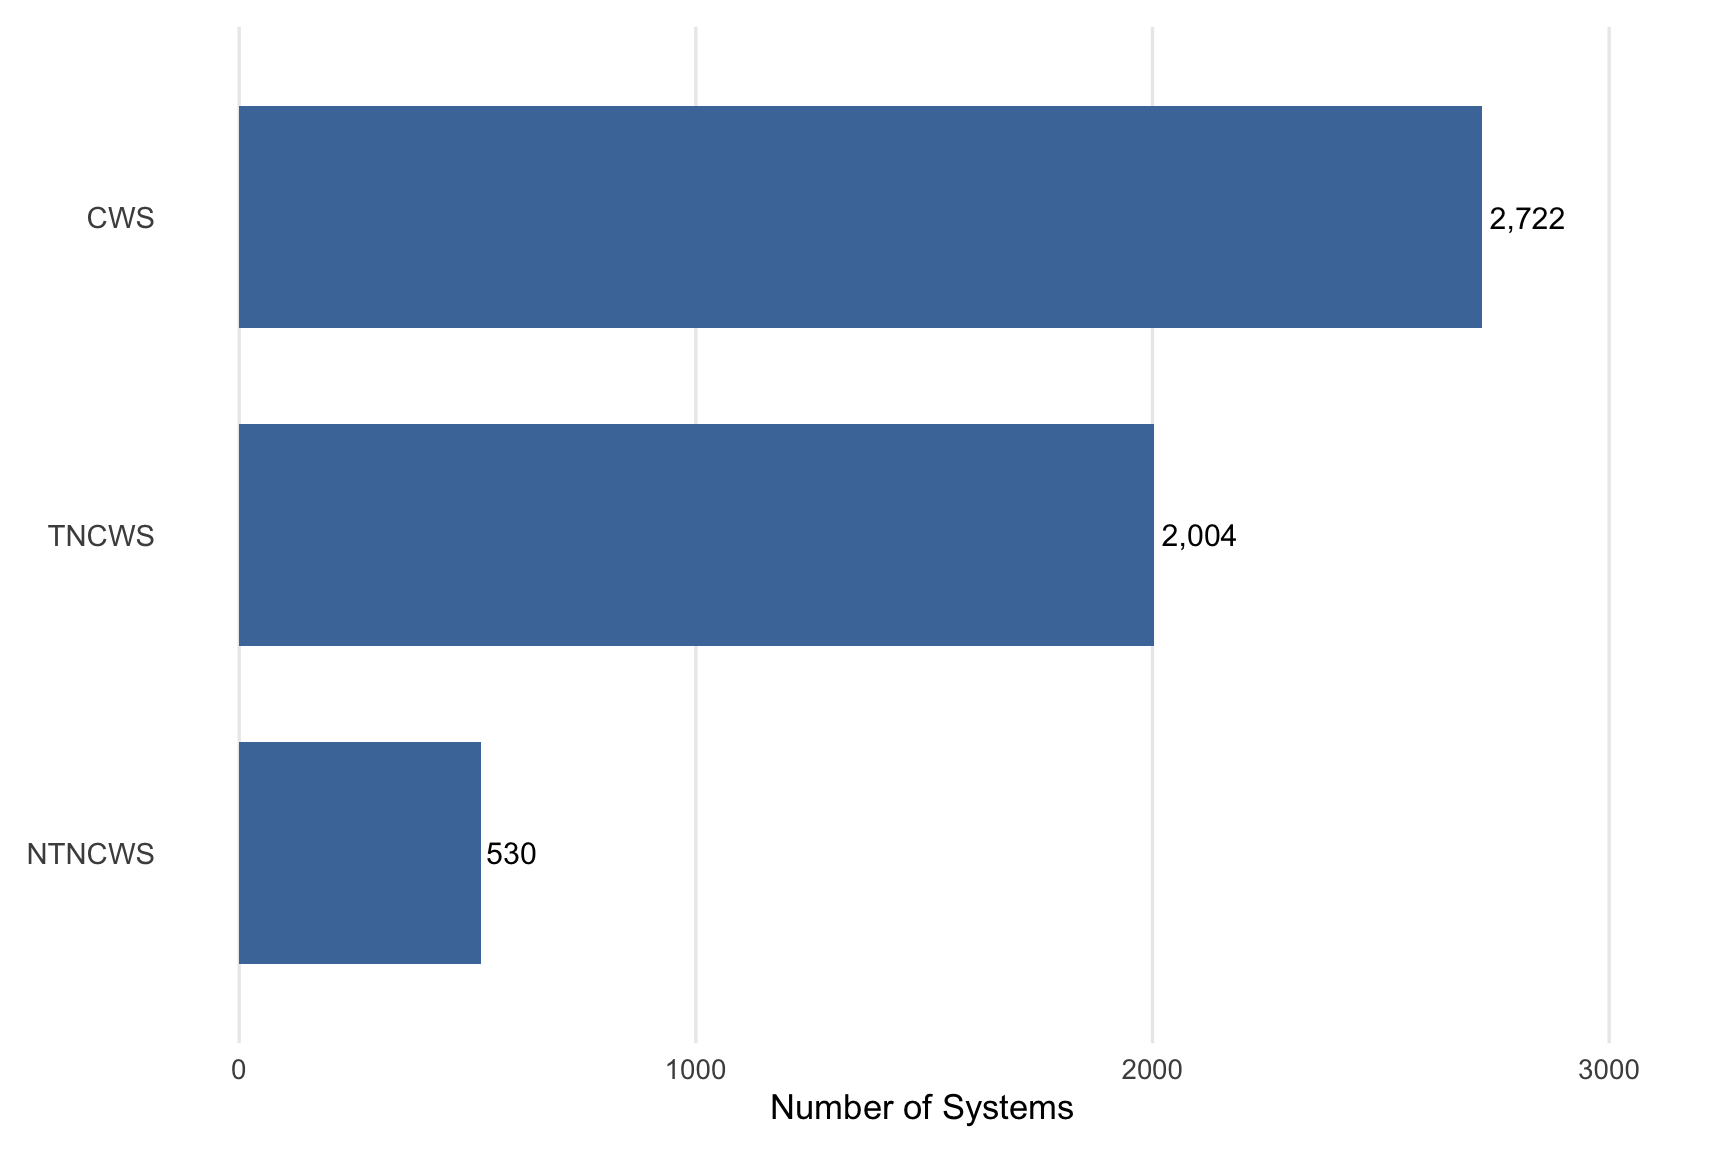
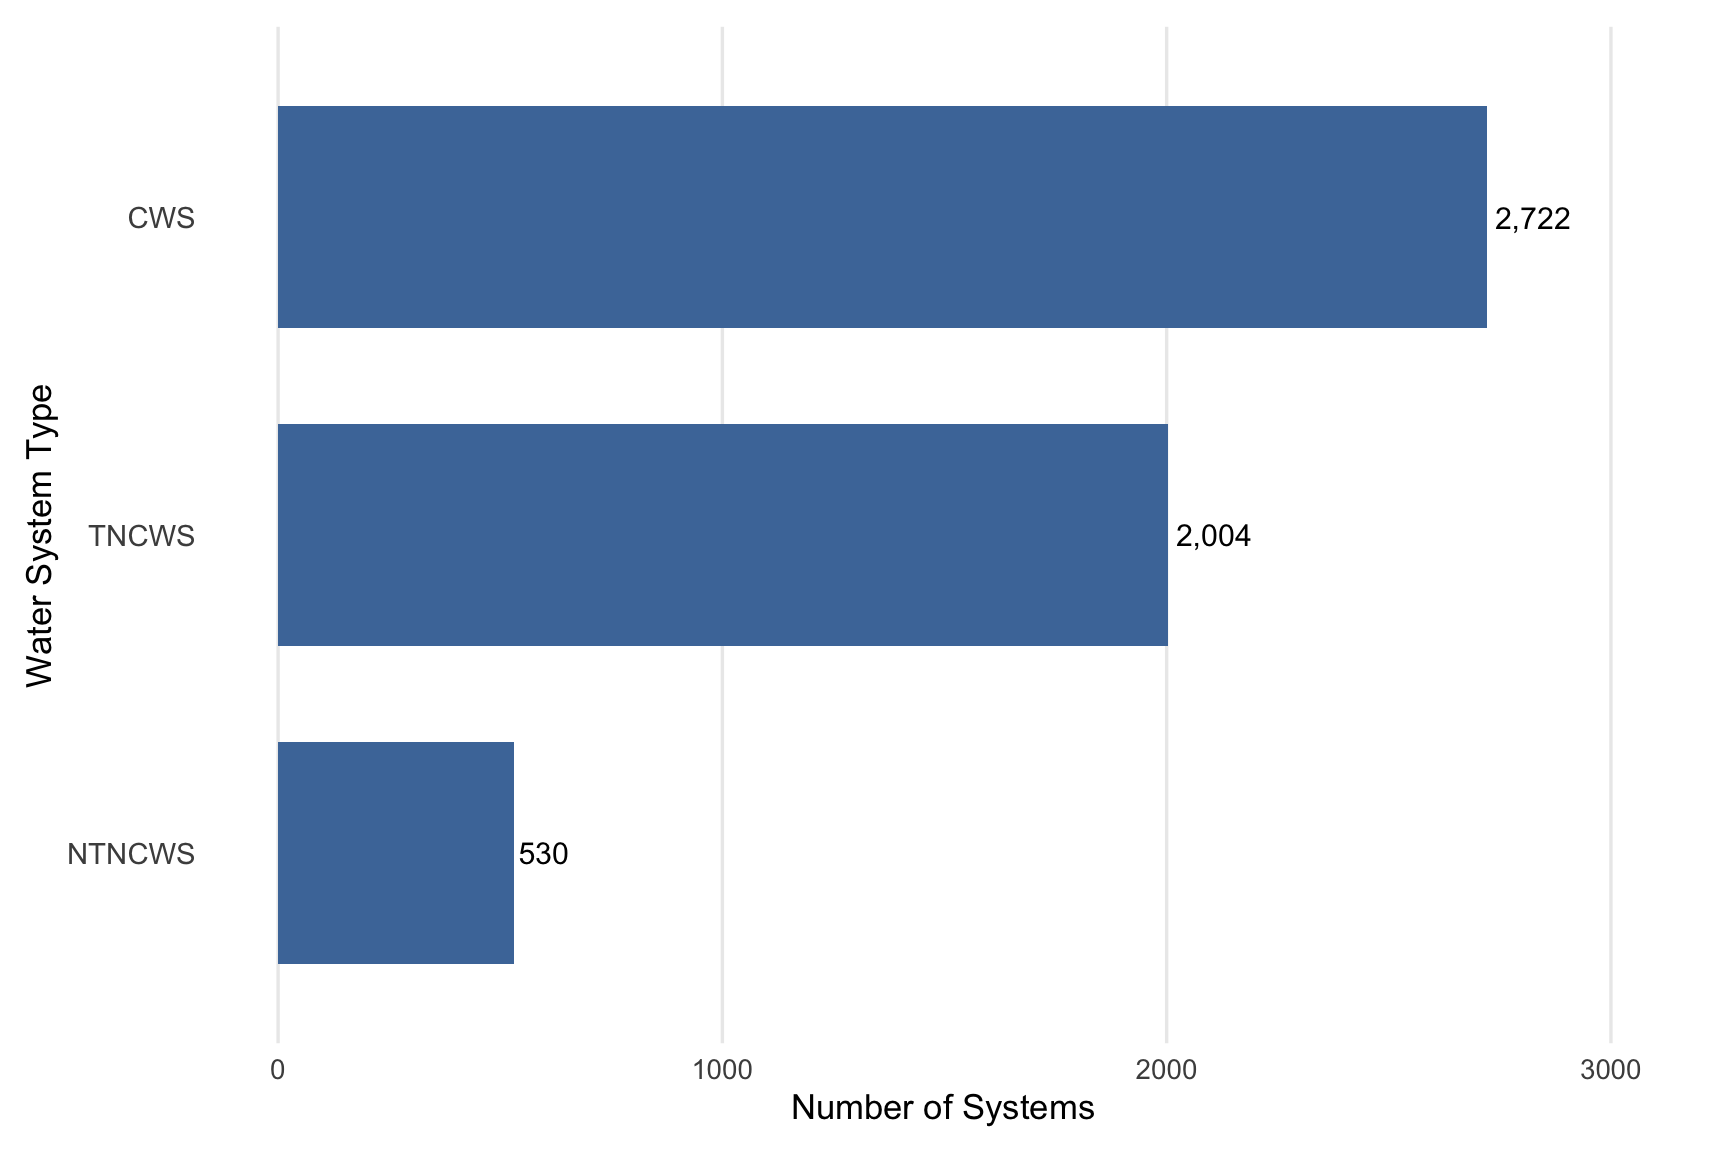
updated

diff --git a/products/manuscript/Manuscript.html b/products/manuscript/Manuscript.html
@@ -144,8 +144,8 @@ div.csl-indent {
 </section>
 <section id="results" class="level1" data-number="4">
 <h1 data-number="4"><span class="header-section-number">4</span> Results</h1>
-<p>The dataset used for this analysis was restricted to public water systems located in Georgia (n = 5,256). The STATE_CODE variable confirms that all systems in the dataset correspond to Georgia</p>
 <p>Exploratory data analysis was conducted to examine characteristics of public water systems in Georgia and to understand the distribution of key variables prior to statistical modeling. These analyses focused on system type, population served, and the distribution of drinking water violations across systems.</p>
+<p>The dataset used for this analysis was restricted to public water systems located in Georgia, which resulted in 5,256 water systems (n = 5,256).</p>
 <div class="cell">
 <div class="cell-output-display">
 <div id="fig-system-types" class="quarto-float quarto-figure quarto-figure-center anchored">
